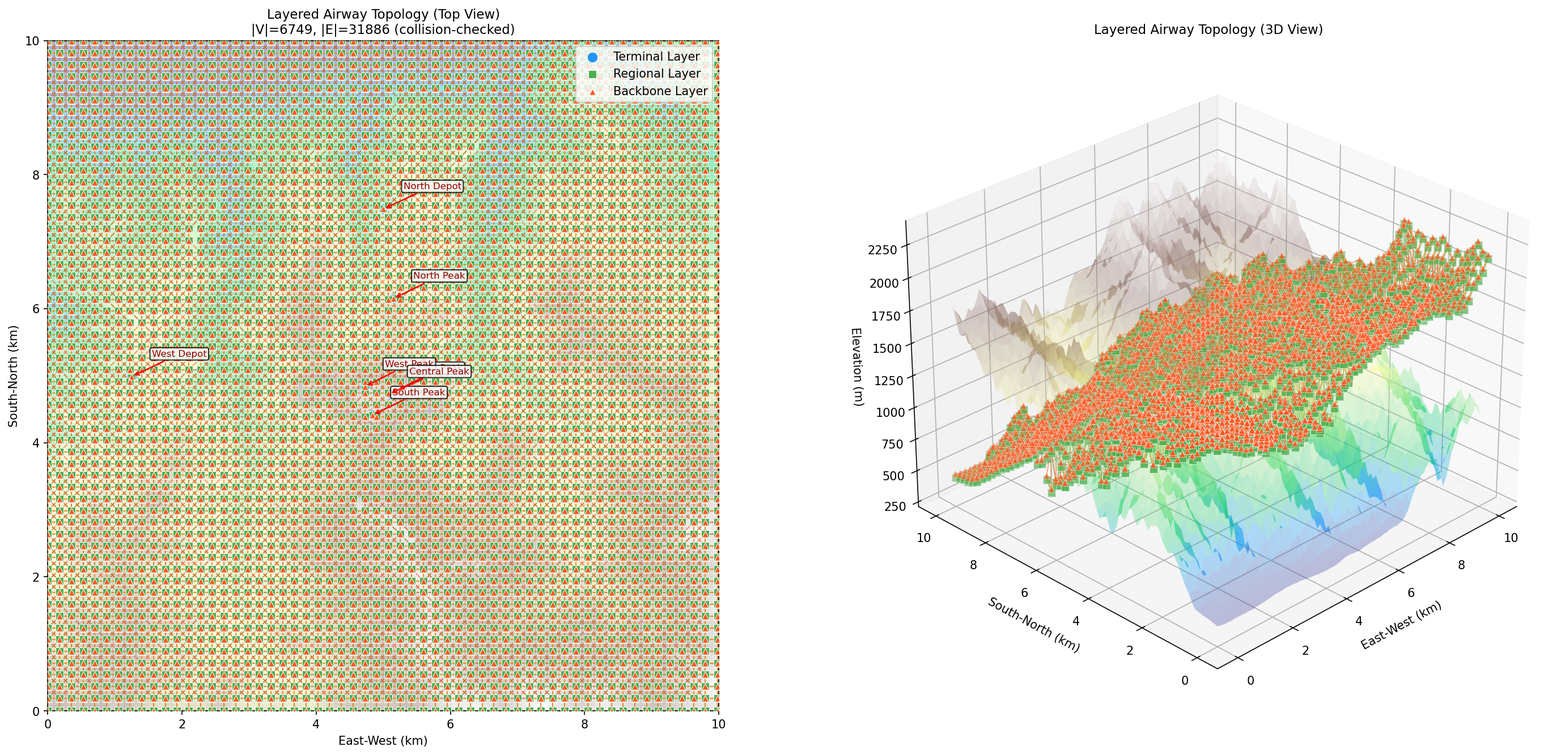
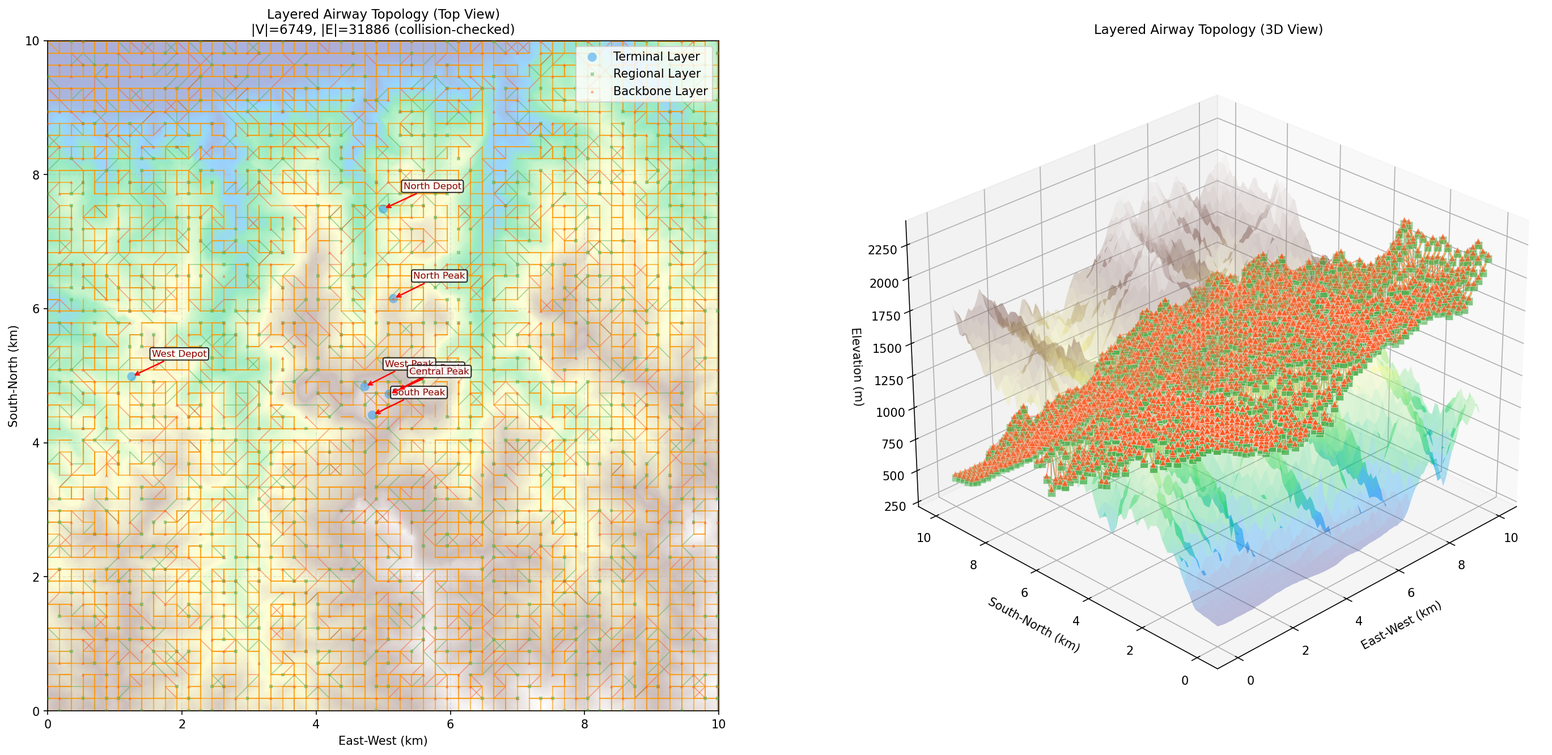
对图片中的元素进习优化

Changed region(s): [[0.031, 0.0308, 0.4657, 0.9535]]

diff --git a/lpa_star.py b/lpa_star.py
@@ -635,9 +635,9 @@ for lid, (color, marker) in enumerate(zip(["#2196F3","#4CAF50","#FF5722"], ["o",
 if path1:
     px_raw = [nodes[n,0] for n in path1_raw]
     py_raw = [nodes[n,1] for n in path1_raw]
-    # 原始折线（亮青色点线）
-    axA.plot(px_raw, py_raw, color='#00E5FF', lw=2.1, zorder=1.8,
-             linestyle=':', alpha=0.9, label='raw polyline')
+    # 原始折线（橙色加粗实线）
+    axA.plot(px_raw, py_raw, color='#FF6D00', lw=2.5, zorder=4,
+             linestyle='-', alpha=0.85, label='raw polyline')
     # B 样条平滑曲线（红色虚线）
     axA.plot(curve1[:,0], curve1[:,1], color='red', lw=2.0, zorder=5,
              linestyle='--', dashes=(6,3), label='B-spline path')
@@ -813,15 +813,11 @@ def draw_raw_path_with_blocked_segments(ax, raw_path, blocked_edges,
 
 def draw_update_ripple(ax, expanded_order, cmap='magma'):
     """
-    将LPA*增量搜索展开节点渲染成“更新波纹面”：
-    凸包区域 + 外层半透明大圆 + 内层按展开顺序着色、带描边的实点。
+    仅渲染LPA*局部更新凸包面，不绘制密集散点。
     """
     if len(expanded_order) == 0:
         return
     idx = np.asarray(expanded_order, dtype=int)
-    x = nodes[idx, 0]
-    y = nodes[idx, 1]
-    order = np.arange(len(idx))
 
     # 凸包：直接给出局部更新影响区边界
     uniq_idx = np.asarray(list(dict.fromkeys(idx.tolist())), dtype=int)
@@ -832,28 +828,20 @@ def draw_update_ripple(ax, expanded_order, cmap='magma'):
             poly = pts[hull.vertices]
             patch = Polygon(poly, closed=True, fill=True,
                             facecolor='#D9B6FF', edgecolor='#6A1B9A',
-                            linewidth=1.4, alpha=0.18, zorder=4.05,
-                            label='LPA Local Update Area')
+                            linewidth=2.0, alpha=0.35, zorder=4.05,
+                            label='LPA* Local Update Area')
             ax.add_patch(patch)
         except QhullError:
             pass
 
-    # 波纹底面（halo）
-    ax.scatter(x, y, c=order, cmap=cmap, s=165, alpha=0.14,
-               zorder=4.2, edgecolors='none')
-    # 核心节点（顺序着色 + 描边增强对比度）
-    ax.scatter(x, y, c=order, cmap=cmap, s=30, alpha=0.93,
-               zorder=5.8, edgecolors='black', linewidths=0.45,
-               label='LPA* updated states')
-
     # 起/止展开节点标记，帮助审稿人读取传播方向
     s0, s1 = int(idx[0]), int(idx[-1])
-    ax.scatter([nodes[s0,0]], [nodes[s0,1]], c='#00BCD4', s=46, marker='o',
-               zorder=6.4, edgecolors='black', linewidths=0.4, alpha=0.95,
-               label='_nolegend_')
-    ax.scatter([nodes[s1,0]], [nodes[s1,1]], c='#FF9800', s=56, marker='*',
-               zorder=6.5, edgecolors='black', linewidths=0.4, alpha=0.95,
-               label='_nolegend_')
+    ax.scatter([nodes[s0,0]], [nodes[s0,1]], c='#00BCD4', s=60, marker='o',
+               zorder=6.4, edgecolors='black', linewidths=0.6, alpha=0.95,
+               label='Update start')
+    ax.scatter([nodes[s1,0]], [nodes[s1,1]], c='#FF9800', s=70, marker='*',
+               zorder=6.5, edgecolors='black', linewidths=0.6, alpha=0.95,
+               label='Update end')
 
 def apply_compact_legend(ax, ordered_labels, loc='upper left'):
     """压缩图例项数量，适配IEEE单栏缩放显示。"""
@@ -915,8 +903,9 @@ draw_blocked_topology(ax2, blocked_edges)
 apply_compact_legend(
     ax2,
     [
-        'LPA Local Update Area',
-        'LPA* updated states',
+        'LPA* Local Update Area',
+        'Update start',
+        'Update end',
         'Blocked segment on original path',
         'Original path (raw polyline)',
         'Original path (smoothed)',
@@ -956,8 +945,9 @@ if path3:
 apply_compact_legend(
     ax3,
     [
-        'LPA Local Update Area',
-        'LPA* updated states',
+        'LPA* Local Update Area',
+        'Update start',
+        'Update end',
         'Blocked segment on original path',
         'Replanned path (B-spline)',
         'Original smoothed path (blocked)',

diff --git a/layered_graph.py b/layered_graph.py
@@ -359,22 +359,36 @@ ax1.imshow(Z, cmap='terrain', alpha=0.4,
            extent=[0, cols*RESOLUTION/1000, 0, rows*RESOLUTION/1000],
            origin='upper', aspect='equal')
 
+rng = np.random.default_rng(42)  # 固定随机种子，结果可复现
 for e in edges:
     i, j, etype = int(e[0]), int(e[1]), int(e[2])
-    if   etype == 0: color, lw, alpha = LAYER_COLORS[int(nodes[i,3])], 1.0, 0.6
-    elif etype == 1: color, lw, alpha = "#9C27B0", 1.8, 0.9
-    else:            color, lw, alpha = "#FF9800", 0.8, 0.5
+    if etype == 0:
+        if rng.random() > 0.10:   # 90%的水平边跳过不画
+            continue
+        color, lw, alpha = LAYER_COLORS[int(nodes[i,3])], 0.8, 0.5
+    elif etype == 1:
+        color, lw, alpha = "#9C27B0", 2.0, 0.95  # 垂直电梯边全部显示
+    else:
+        color, lw, alpha = "#FF9800", 1.0, 0.6   # 斜向爬升边全部显示
     ax1.plot([nodes[i,0], nodes[j,0]],
              [nodes[i,1], nodes[j,1]],
              color=color, lw=lw, alpha=alpha, zorder=2)
 
 for lid, (color, marker, size) in enumerate(
-        zip(LAYER_COLORS, LAYER_MARKERS, LAYER_SIZES)):
-    mask  = nodes[:,3] == lid
+        zip(LAYER_COLORS, LAYER_MARKERS, [60, 8, 8])):
+    mask  = np.where(nodes[:,3] == lid)[0]
     label = ["Terminal Layer", "Regional Layer", "Backbone Layer"][lid]
-    ax1.scatter(nodes[mask,0], nodes[mask,1],
+    if len(mask) == 0:
+        continue
+    if lid == 0:
+        # 末端层=锚点，全部显示，放大
+        show = mask
+    else:
+        # 支路/骨干网格节点，随机取20%
+        show = rng.choice(mask, size=max(1, len(mask)//5), replace=False)
+    ax1.scatter(nodes[show,0], nodes[show,1],
                 c=color, marker=marker, s=size, label=label,
-                zorder=3, edgecolors='white', linewidths=0.5)
+                alpha=0.5, zorder=3, edgecolors='none')
 
 display_name = {
     "南峰": "South Peak",
